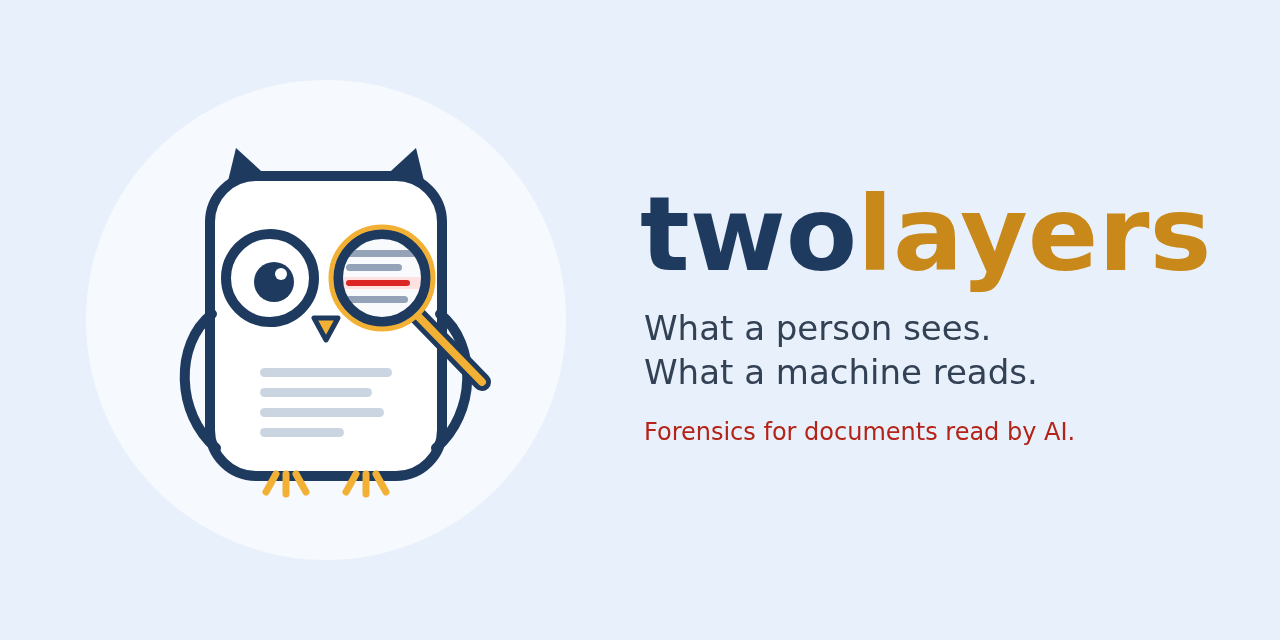
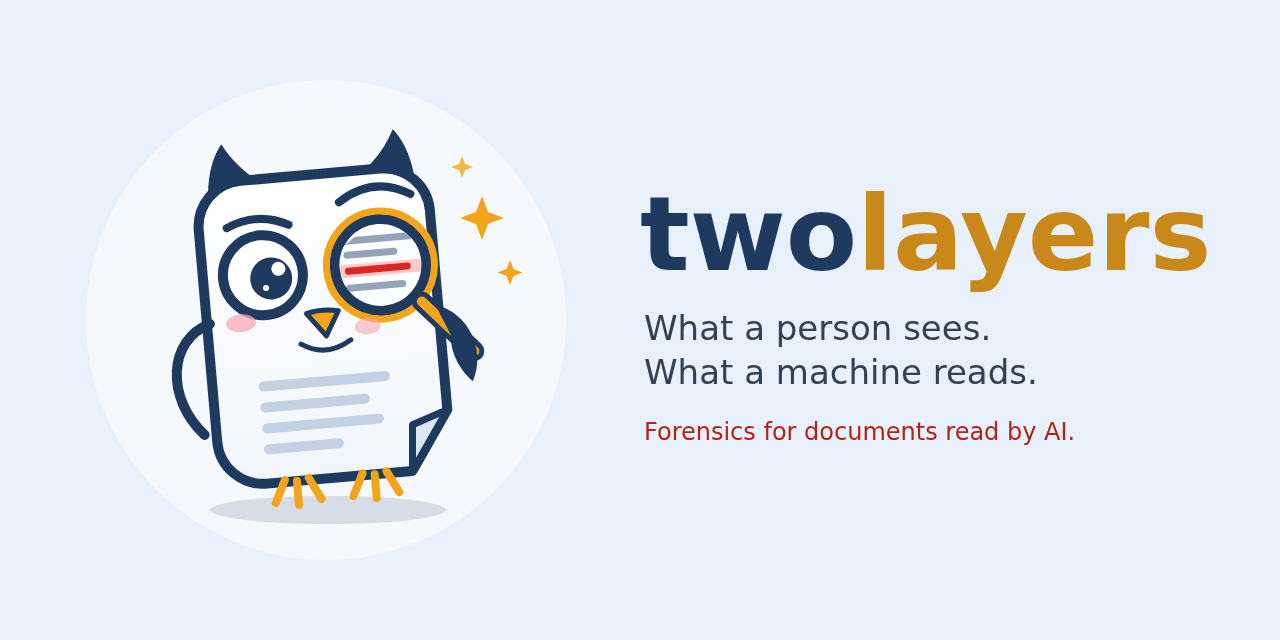
twolayers 0.19.1 — mascote novo; teste da linha-do-tempo não regenera arquivos versionados

Changed region(s): [[0.125, 0.1875, 0.4062, 0.8438]]

diff --git a/tests/test_cli_linha.py b/tests/test_cli_linha.py
@@ -1,6 +1,5 @@
 """linha-do-tempo: o exemplo de perícia do README tem de continuar dizendo o que diz."""
 
-import runpy
 from pathlib import Path
 
 from twolayers.cli_linha import main
@@ -8,9 +7,8 @@ from twolayers.cli_linha import main
 EXEMPLO = Path(__file__).resolve().parents[1] / "exemplos" / "pericia-sessoes"
 
 
-def test_exemplo_word_diz_quem_foi_escondido_depois(tmp_path, capsys, monkeypatch):
-    monkeypatch.setattr("sys.argv", ["gerar.py"])
-    runpy.run_path(str(EXEMPLO / "gerar.py"))
+def test_exemplo_word_diz_quem_foi_escondido_depois(capsys):
+    # usa o arquivo versionado (não regenera: o zip mudaria a data interna e sujaria o repositório)
     assert main([str(EXEMPLO / "manifestacao_ficticia.docx")]) == 0
     saida = capsys.readouterr().out
     assert "Proposta de acordo" in saida and "escondido DEPOIS de digitado" in saida and "sessão 3 de 3" in saida

diff --git a/src/twolayers/__init__.py b/src/twolayers/__init__.py
@@ -1,1 +1,1 @@
-__version__ = "0.19.0"
+__version__ = "0.19.1"
